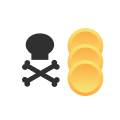
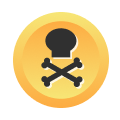
feat: show pirate deal dots above ships with tribe tooltips
- Draw an 8px dot in each paid tribe's color above a pirate ship that
  has deals, spaced 4px apart in a row; hover shows 'Deal with {tribe}'
- Disappear when a deal is broken or the pirate leaves
- Refresh via the tile signature so dots appear the moment a deal is
  struck, and regenerate the action-buttons atlas from the updated
  deal icon

diff --git a/src/render/mapRenderer.ts b/src/render/mapRenderer.ts
@@ -1,5 +1,5 @@
 import {
-  Application, Container, Graphics, Sprite, Text, type TextStyleOptions, type Texture, type Ticker
+  Application, Circle, Container, Graphics, Sprite, Text, type TextStyleOptions, type Texture, type Ticker
 } from 'pixi.js';
 import { axialKey, compareTileY, hexCorners, hexEdge, hexEdgeNeighbor, hexToPixel, splitHexBorder } from '../game/hex';
 import { GameMap, MapTile } from '../game/mapGen';
@@ -20,6 +20,15 @@ import { tileElevation } from './elevation';
 import { type TextureSet, type TileTexture } from './textureFactory';
 import { villageTextureFor, villageOwnerTribe } from './villageTexture';
 import { tileSignature, tileInView, type Viewport } from './tileSignature';
+import { t } from '../i18n';
+import { Tooltip } from '../ui/kit/tooltip';
+
+/** Diameter of a pirate-deal dot drawn above the ship (world px). */
+export const PIRATE_DEAL_DOT = 8;
+/** Horizonial gap between pirate-deal dots (world px). */
+export const PIRATE_DEAL_GAP = 4;
+/** Lift of the deal-dot row above the pirate's sprite top (world px). */
+export const PIRATE_DEAL_LIFT = 14;
 
 export interface OverlayItem {
   el: Container;
@@ -129,6 +138,8 @@ interface TileView {
   unitSprite: Sprite | null;
   territory: Graphics;
   roadGraphics: Graphics | null;
+  /** Interactive row of 8px tribe-colored dots, one per active pirate deal. */
+  dealCircles: Container | null;
   signature: string;
 }
 
@@ -178,6 +189,7 @@ export class MapView {
   private shipBobRemove: (() => void) | null = null;
   private shipBusy = new Set<string>();
   private unitFacings = new Map<string, 'left' | 'right'>();
+  private dealTooltip: Tooltip | null = null;
   private lastLocalIndex = 0;
   /** Screen-space layer for edge capture markers. Kept out of `overlay` so a
    *  host can place it above every HUD element. */
@@ -210,6 +222,10 @@ export class MapView {
     this.stopShipBob();
     this.stopEdgePulse();
     this.unitFacings.clear();
+    if (this.dealTooltip) {
+      this.dealTooltip.destroy();
+      this.dealTooltip = null;
+    }
     if (this.exclamationAnimRemove) {
       this.exclamationAnimRemove();
       this.exclamationAnimRemove = null;
@@ -442,6 +458,7 @@ export class MapView {
         unitSprite: null,
         territory,
         roadGraphics: null,
+        dealCircles: null,
         signature: '',
       });
       this.container.addChild(el);
@@ -519,6 +536,64 @@ export class MapView {
         this.faceUnitSprite(tv.unitSprite, this.unitFacings.get(tile.unit.id) ?? 'right');
       }
     }
+
+    this.syncDealCircles(tv, tile, players, explored, hiddenUnitIds);
+  }
+
+  /** Draws a row of 8px dots above the pirate, one per active deal, colored in
+   *  the paid tribe's color. Each dot is interactive and shows a tooltip
+   *  naming the tribe the deal protects. */
+  private syncDealCircles(tv: TileView, tile: MapTile, players: Player[], explored: boolean, hiddenUnitIds: Set<string>): void {
+    const unit = tile.unit;
+    const paidBy = unit?.paidBy ?? [];
+    const shouldDraw = unit !== null && unit.type === 'pirate' && explored && !(hiddenUnitIds.has(unit.id)) && paidBy.length > 0;
+    if (!shouldDraw) {
+      if (tv.dealCircles) {
+        tv.el.removeChild(tv.dealCircles);
+        tv.dealCircles.destroy({ children: true });
+        tv.dealCircles = null;
+      }
+      return;
+    }
+    if (!this.dealTooltip) {
+      this.dealTooltip = new Tooltip(this.app);
+      this.app.stage.addChild(this.dealTooltip.el);
+    }
+    if (!tv.dealCircles) {
+      tv.dealCircles = new Container();
+      tv.dealCircles.eventMode = 'static';
+      tv.dealCircles.zIndex = 9;
+      tv.el.addChild(tv.dealCircles);
+    } else {
+      tv.dealCircles.removeChildren().forEach((c) => c.destroy({ children: true }));
+    }
+    const p = hexToPixel(tile, this.hexSize);
+    const y = p.y - tileElevation(tile, this.hexSize);
+    const top = this.unitTextureTop(unit, players);
+    tv.dealCircles.position.set(p.x, y - top - PIRATE_DEAL_LIFT);
+    let x = 0;
+    for (const ownerIndex of paidBy) {
+      const holder = new Container();
+      holder.eventMode = 'static';
+      holder.hitArea = new Circle(PIRATE_DEAL_DOT / 2, PIRATE_DEAL_DOT / 2, PIRATE_DEAL_DOT / 2);
+      holder.position.set(x, 0);
+      const tribe = players[ownerIndex] ? TRIBES.find((trib) => trib.id === players[ownerIndex]!.tribe) : undefined;
+      const g = new Graphics();
+      g.circle(PIRATE_DEAL_DOT / 2, PIRATE_DEAL_DOT / 2, PIRATE_DEAL_DOT / 2).fill(tribe?.color ?? PIRATE_COLOR);
+      holder.addChild(g);
+      const player = players[ownerIndex];
+      if (player && tribe) {
+        holder.on('pointerover', () => this.showDealTooltip(holder, tribe.name));
+        holder.on('pointerout', () => this.dealTooltip?.hide());
+      }
+      tv.dealCircles.addChild(holder);
+      x += PIRATE_DEAL_DOT + PIRATE_DEAL_GAP;
+    }
+  }
+
+  private showDealTooltip(target: Container, tribeName: string): void {
+    if (!this.dealTooltip) return;
+    this.dealTooltip.showFor(target, '', t('hud.pirateDealWith', { tribe: tribeName }));
   }
 
   /** Y for a bridge sprite: the deck rides at the height of the lower of the

diff --git a/tests/mapRenderer.test.ts b/tests/mapRenderer.test.ts
@@ -5,7 +5,7 @@ import { GameMap, MapTile } from '../src/game/mapGen';
 import { TileType } from '../src/game/tileTypes';
 import { Player } from '../src/game/players';
 import { START_RESOURCES } from '../src/game/resources';
-import { Tribe } from '../src/game/tribes';
+import { Tribe, TRIBES } from '../src/game/tribes';
 import { Unit, UNIT_TYPES } from '../src/game/units';
 import { axialKey, hexToPixel } from '../src/game/hex';
 import { tileElevation } from '../src/render/elevation';
@@ -1509,3 +1509,91 @@ interface TileViewShape {
   buildingSprite: Sprite | null;
   unitSprite: Sprite | null;
 }
+
+describe('pirate deal circles', () => {
+  const viewport = { x: 400, y: 300, scale: 1, width: 800, height: 600 };
+
+  function makePirate(id: string, paidBy: number[] | undefined): Unit {
+    return {
+      id, owner: -1, type: 'pirate', q: 0, r: 0,
+      hasMoved: false, hasAttacked: false, hasHealed: false,
+      hp: 80, attack: 30, attackDistance: 3, defense: 5, spawnVillage: null,
+      ...(paidBy ? { paidBy } : {}),
+    };
+  }
+
+  function pirateMap(unit: Unit): GameMap {
+    const t00: MapTile = {
+      q: 0, r: 0, terrain: TileType.Water, height: 0.1, settlement: null,
+      building: null, roadOwner: null, unit, ownedBy: null, claimedByVillage: null, exploredBy: [0],
+    };
+    return { radius: 1, spawns: [], tiles: [t00] };
+  }
+
+  function twoTribes(): Player[] {
+    return [
+      { index: 0, tribe: Tribe.Cats, isHuman: true, name: 'Cats', resources: { ...START_RESOURCES }, score: 0, kills: 0, skills: [], isActive: true },
+      { index: 1, tribe: Tribe.Villagers, isHuman: false, name: 'Villagers', resources: { ...START_RESOURCES }, score: 0, kills: 0, skills: [], isActive: true },
+    ];
+  }
+
+  function circlesOf(v: MapView): Container | null {
+    const tvs = (v as unknown as { tileViews: Map<string, { dealCircles: Container | null }> }).tileViews;
+    return tvs.get('0,0')!.dealCircles;
+  }
+
+  function fillColor(g: Graphics): number | undefined {
+    const fill = g.context.instructions.find((i) => i.action === 'fill');
+    return (fill?.data as { style: { color: number } | undefined } | undefined)?.style?.color;
+  }
+
+  it('shows no circles before a deal and draws them after the pirate is paid', () => {
+    const pirate = makePirate('p1', undefined);
+    const textures = buildTextures(pirateMap(pirate));
+    const app = {
+      screen: { width: 800, height: 600 },
+      ticker: { add: (): void => {}, remove: (): void => {} },
+      stage: new Container(),
+    } as unknown as Application;
+    const v = new MapView(app, textures, HEX, SPRITE_SCALE, 2);
+    const players = twoTribes();
+    v.update(pirateMap(pirate), players, null, new Set(), new Set(), 0, new Set(), viewport);
+    expect(circlesOf(v)).toBeNull();
+
+    pirate.paidBy = [0];
+    v.update(pirateMap(pirate), players, null, new Set(), new Set(), 0, new Set(), viewport);
+    expect(circlesOf(v)).not.toBeNull();
+    expect(circlesOf(v)!.children).toHaveLength(1);
+    v.destroy();
+  });
+
+  it('draws one circle per deal in tribe colors, spaced 4px apart', () => {
+    const pirate = makePirate('p1', [0, 1]);
+    const textures = buildTextures(pirateMap(pirate));
+    const app = {
+      screen: { width: 800, height: 600 },
+      ticker: { add: (): void => {}, remove: (): void => {} },
+      stage: new Container(),
+    } as unknown as Application;
+    const v = new MapView(app, textures, HEX, SPRITE_SCALE, 2);
+    const players = twoTribes();
+    v.update(pirateMap(pirate), players, null, new Set(), new Set(), 0, new Set(), viewport);
+
+    const circles = circlesOf(v)!;
+    expect(circles.children).toHaveLength(2);
+    const c0 = circles.children[0] as Container;
+    const c1 = circles.children[1] as Container;
+    expect(c0.position.x).toBe(0);
+    expect(c1.position.x).toBe(12);
+
+    const catsColor = TRIBES.find((t) => t.id === Tribe.Cats)!.color;
+    const villagersColor = TRIBES.find((t) => t.id === Tribe.Villagers)!.color;
+    expect(fillColor(c0.children[0] as Graphics)).toBe(catsColor);
+    expect(fillColor(c1.children[0] as Graphics)).toBe(villagersColor);
+
+    const g0 = c0.children[0] as Graphics;
+    expect(g0.context.instructions.some((i) => i.action === 'fill')).toBe(true);
+    expect((c0.hitArea as { radius?: number }).radius).toBe(4);
+    v.destroy();
+  });
+});

diff --git a/src/i18n/locales/ru.ts b/src/i18n/locales/ru.ts
@@ -336,6 +336,7 @@ export default {
   'hud.selected.buildings': 'Здания: {count}/{limit}',
   'hud.selected.pirateDeal': 'Пират: договора нет',
   'hud.selected.pirateDealActive': 'Пират: договор активен',
+  'hud.pirateDealWith': 'Договор с племенем {tribe}',
   'hud.selected.full': 'Полно — улучшите до уровня {level}, чтобы получить новые слоты',
   'hud.selected.building': '{name} (уровень {level})',
   'hud.selected.bridge': 'Мост',

diff --git a/src/i18n/locales/en.ts b/src/i18n/locales/en.ts
@@ -335,6 +335,7 @@ export default {
   'hud.selected.buildings': 'Buildings: {count}/{limit}',
   'hud.selected.pirateDeal': 'Pirate: no deal',
   'hud.selected.pirateDealActive': 'Pirate: deal active',
+  'hud.pirateDealWith': 'Deal with {tribe}',
   'hud.selected.full': 'Full — upgrade to level {level} for more building slots',
   'hud.selected.building': '{name} (level {level})',
   'hud.selected.bridge': 'Bridge',

diff --git a/src/render/tileSignature.ts b/src/render/tileSignature.ts
@@ -45,6 +45,7 @@ export function tileSignature(
     u ? u.type : '',
     u ? u.owner : '',
     u ? (u.shipLevel ?? '') : '',
+    u ? (u.paidBy ?? []).join(',') : '',
     hidden ? 'h' : '',
     tile.building ? tile.building.kind : '',
     tile.building?.kind === 'port' ? (portDirection(map, tile) ?? '-') : '',
